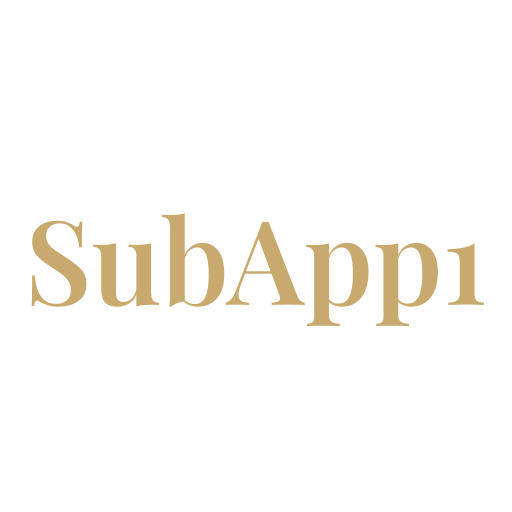
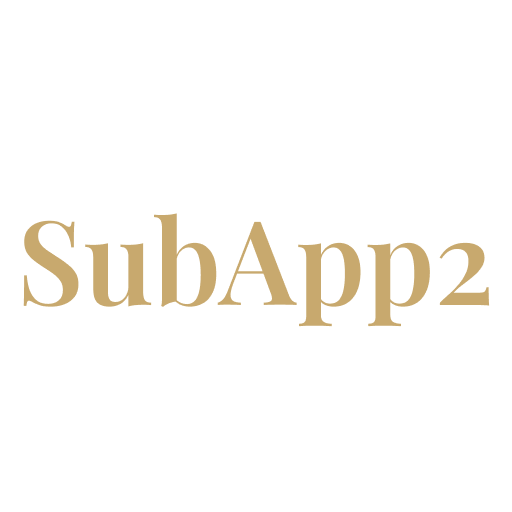
Swap sub app names and update manifest files for correct asset references

Changed region(s): [[0.0312, 0.4062, 0.9688, 0.6562]]

diff --git a/multi-app/index.html b/multi-app/index.html
@@ -9,41 +9,67 @@
     <!-- Manifest -->
     <meta name="theme-color" content="#000000">
     <!-- Optional favicon -->
-    <link rel="icon" href="/manifest-assets/icon-192.png" sizes="192x192">
+    <!-- <link rel="icon" href="/manifest-assets-app1/icon-192.png" sizes="192x192"> -->
 
 </head>
 
 <body>
-    <button id="btn-load-manifest" type="button">Load Manifest</button>
+    <button id="btn-load-app1" type="button">Load Sub App 1</button>
+    <button id="btn-load-app2" type="button">Load Sub App 2</button>
     <button id="btn-install-app" type="button" hidden>Install App</button>
-    <p id="manifest-status">Manifest not loaded yet.</p>
+    <p id="manifest-status">No sub app loaded yet.</p>
     <p id="install-status" hidden>Install prompt not available yet.</p>
 
     <script>
         const manifestStatus = document.getElementById('manifest-status');
-        const btnLoadManifest = document.getElementById('btn-load-manifest');
+        const btnLoadApp1 = document.getElementById('btn-load-app1');
+        const btnLoadApp2 = document.getElementById('btn-load-app2');
         const btnInstallApp = document.getElementById('btn-install-app');
         const installStatus = document.getElementById('install-status');
         const manifestLinkId = 'lineflow-manifest-link';
+        const manifests = {
+            app1: {
+                label: 'Sub App 1',
+                href: '/manifest-assets-app1/manifest.json',
+                icon: '/manifest-assets-app1/icon-192.png',
+            },
+            app2: {
+                label: 'Sub App 2',
+                href: '/manifest-assets-app2/manifest.json',
+                icon: '/manifest-assets-app2/icon-192.png',
+            },
+        };
 
+        let activeManifestKey = null;
         let manifestLinkLoaded = false;
         let installPromptEvent = null;
 
         const updateManifestStatus = () => {
-            manifestStatus.textContent = manifestLinkLoaded
-                ? 'Manifest loaded.'
-                : 'Manifest not loaded yet.';
-            btnLoadManifest.disabled = manifestLinkLoaded;
-            btnLoadManifest.textContent = manifestLinkLoaded ? 'Manifest Loaded' : 'Load Manifest';
-            btnInstallApp.hidden = !manifestLinkLoaded;
-            installStatus.hidden = !manifestLinkLoaded;
+            const activeManifest = activeManifestKey ? manifests[activeManifestKey] : null;
+            manifestStatus.textContent = activeManifest
+                ? `${activeManifest.label} manifest loaded.`
+                : 'No sub app loaded yet.';
+            btnLoadApp1.disabled = activeManifestKey === 'app1';
+            btnLoadApp2.disabled = activeManifestKey === 'app2';
+            btnLoadApp1.textContent = activeManifestKey === 'app1' ? 'Sub App 1 Loaded' : 'Load Sub App 1';
+            btnLoadApp2.textContent = activeManifestKey === 'app2' ? 'Sub App 2 Loaded' : 'Load Sub App 2';
+            btnInstallApp.hidden = !activeManifest;
+            btnInstallApp.textContent = activeManifest
+                ? `Install ${activeManifest.label}`
+                : 'Install App';
+            installStatus.hidden = !activeManifest;
+            if (!activeManifest) {
+                installStatus.textContent = 'Load a sub app manifest to enable install.';
+                return;
+            }
             installStatus.textContent = installPromptEvent
-                ? 'Install is ready.'
-                : 'Manifest is loaded, but install prompt is not ready yet.';
+                ? `Install is ready for ${activeManifest.label}.`
+                : `${activeManifest.label} manifest is loaded, but install prompt is not ready yet.`;
         };
 
-        const addManifestLink = () => {
-            if (manifestLinkLoaded) {
+        const loadManifest = (manifestKey) => {
+            const manifest = manifests[manifestKey];
+            if (!manifest) {
                 return;
             }
 
@@ -52,16 +78,22 @@
                 link = document.createElement('link');
                 link.id = manifestLinkId;
                 link.rel = 'manifest';
-                link.href = '/manifest-assets-app1/manifest.json';
                 document.head.appendChild(link);
             }
 
+            link.href = manifest.href;
+            const favicon = document.querySelector('link[rel="icon"]');
+            if (favicon) {
+                favicon.href = manifest.icon;
+            }
+
+            activeManifestKey = manifestKey;
             manifestLinkLoaded = true;
+            installPromptEvent = null;
             updateManifestStatus();
         };
 
         window.addEventListener('beforeinstallprompt', (event) => {
-            // alert('event: beforeinstallprompt')
             event.preventDefault();
             installPromptEvent = event;
             if (manifestLinkLoaded) {
@@ -83,8 +115,12 @@
             updateManifestStatus();
         });
 
-        btnLoadManifest.addEventListener('click', () => {
-            addManifestLink();
+        btnLoadApp1.addEventListener('click', () => {
+            loadManifest('app1');
+        });
+
+        btnLoadApp2.addEventListener('click', () => {
+            loadManifest('app2');
         });
 
         updateManifestStatus();
